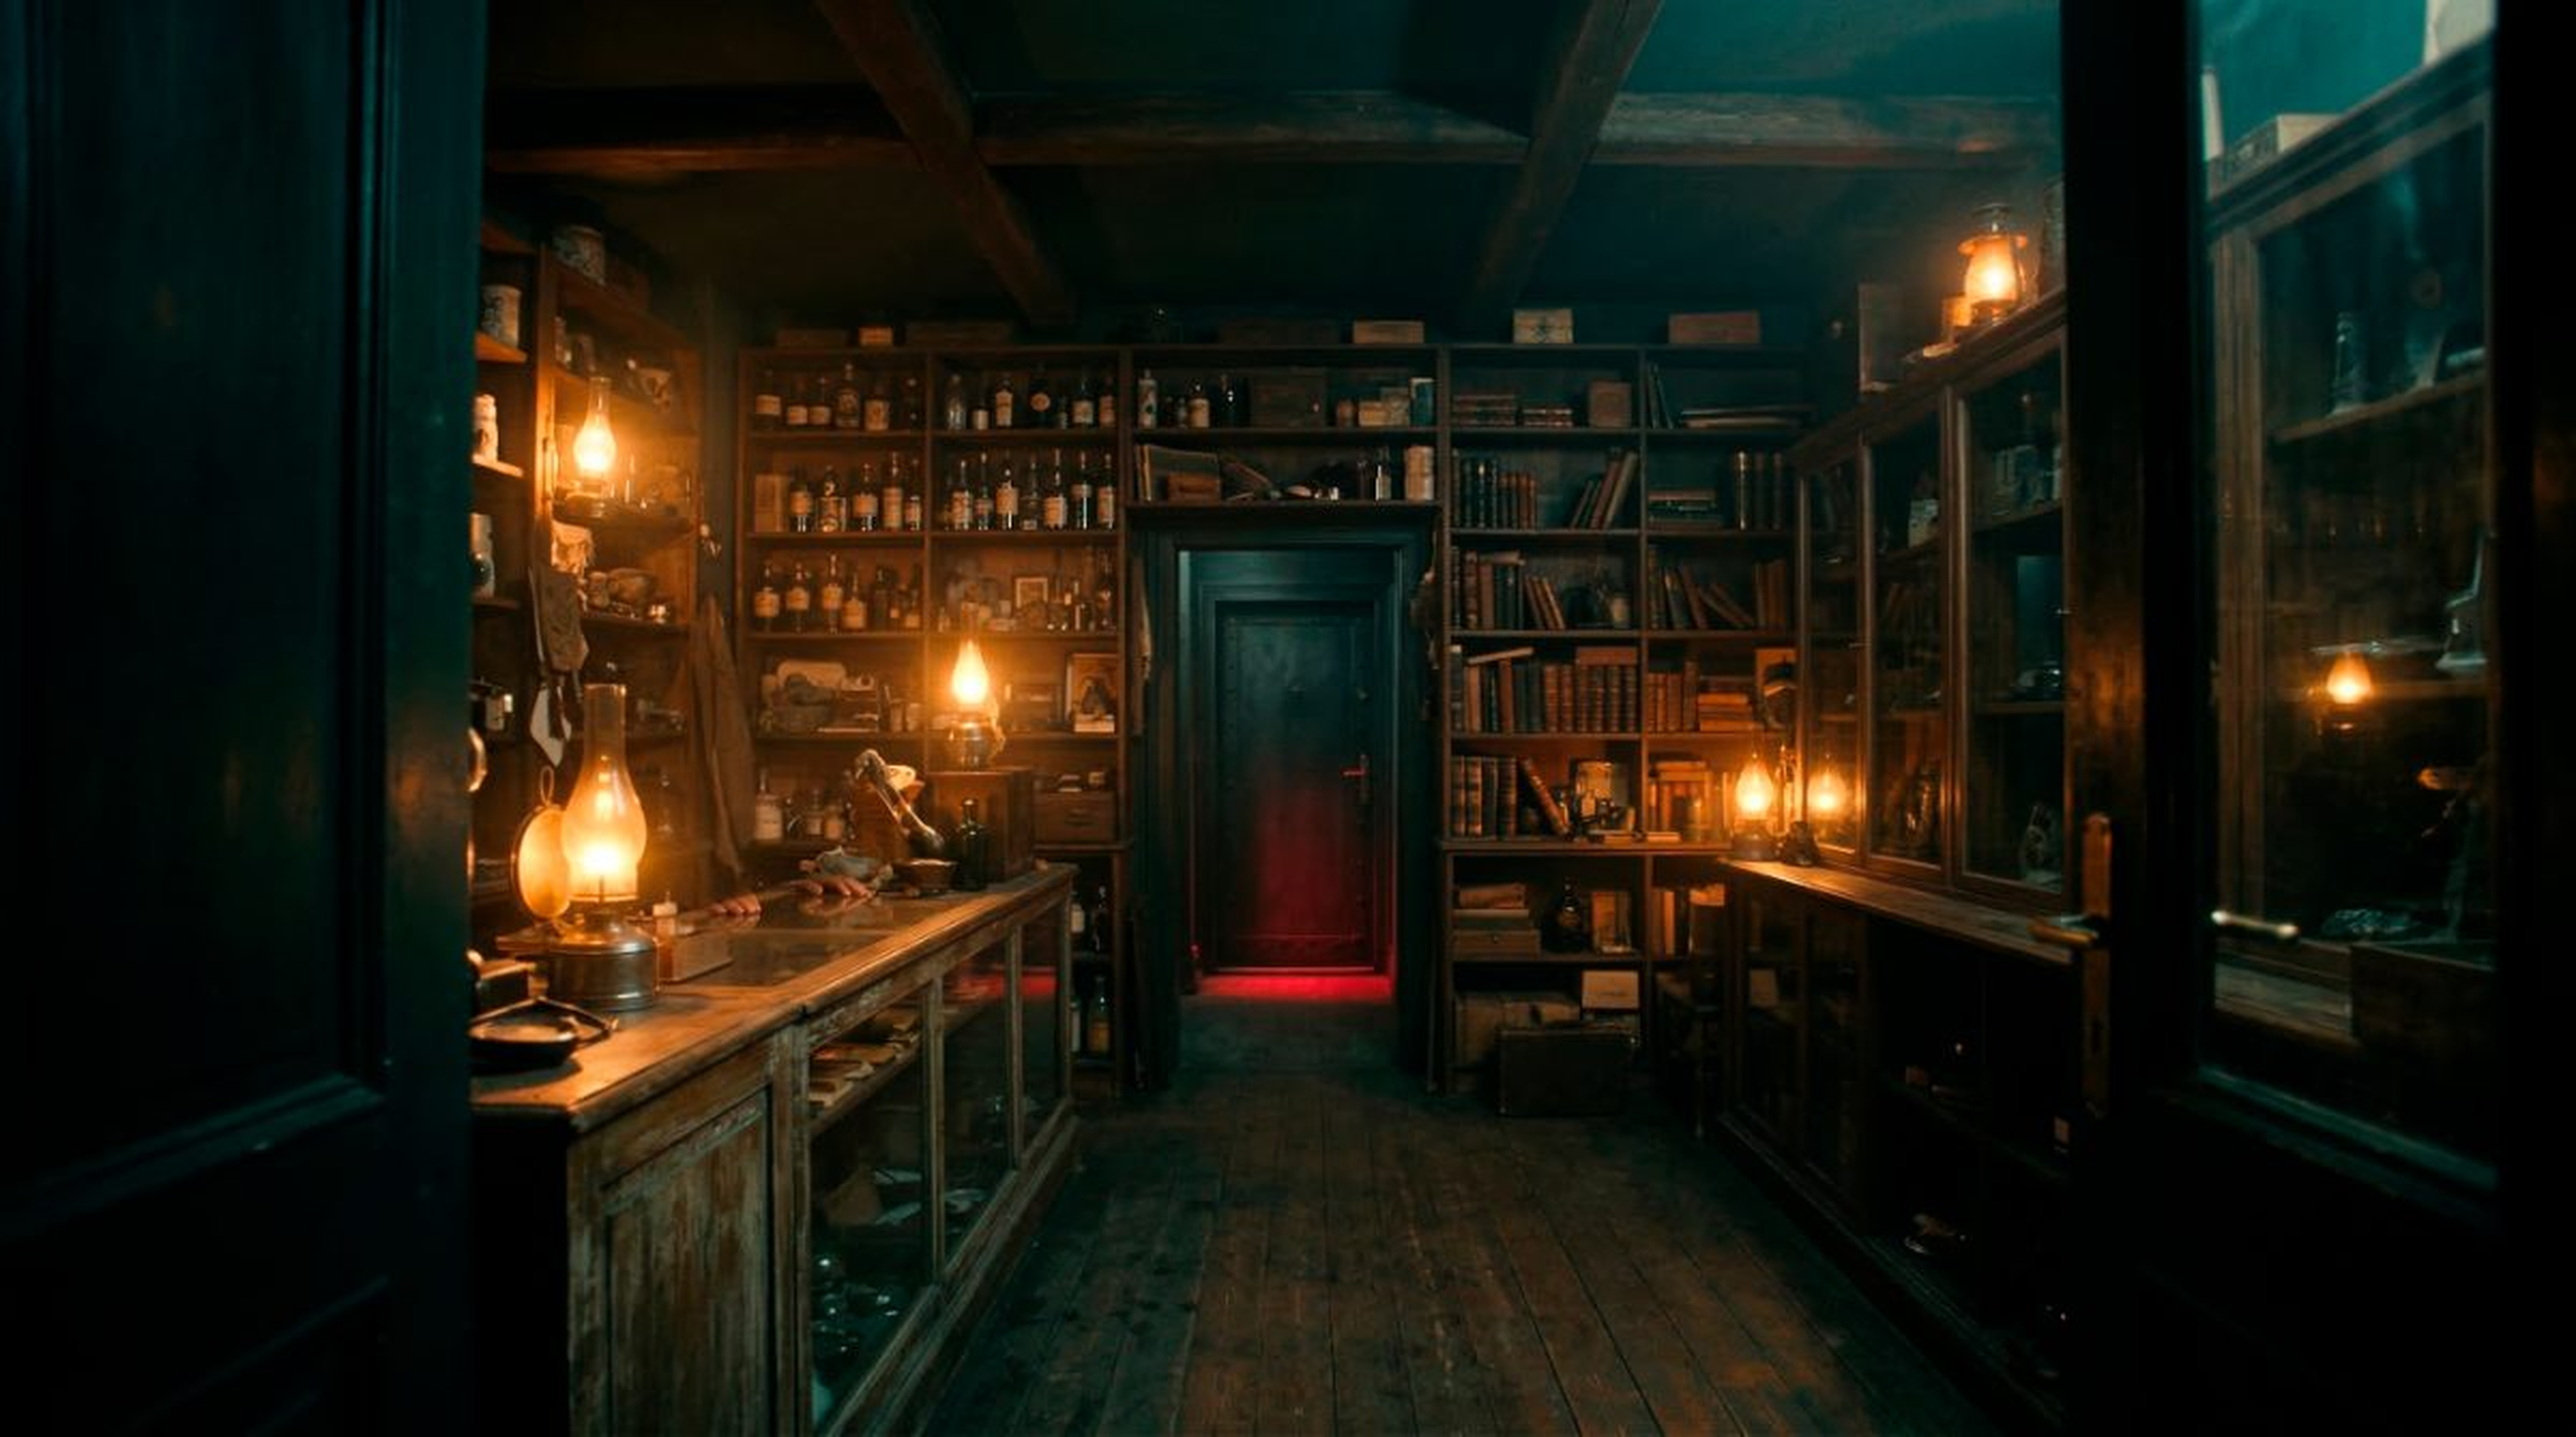
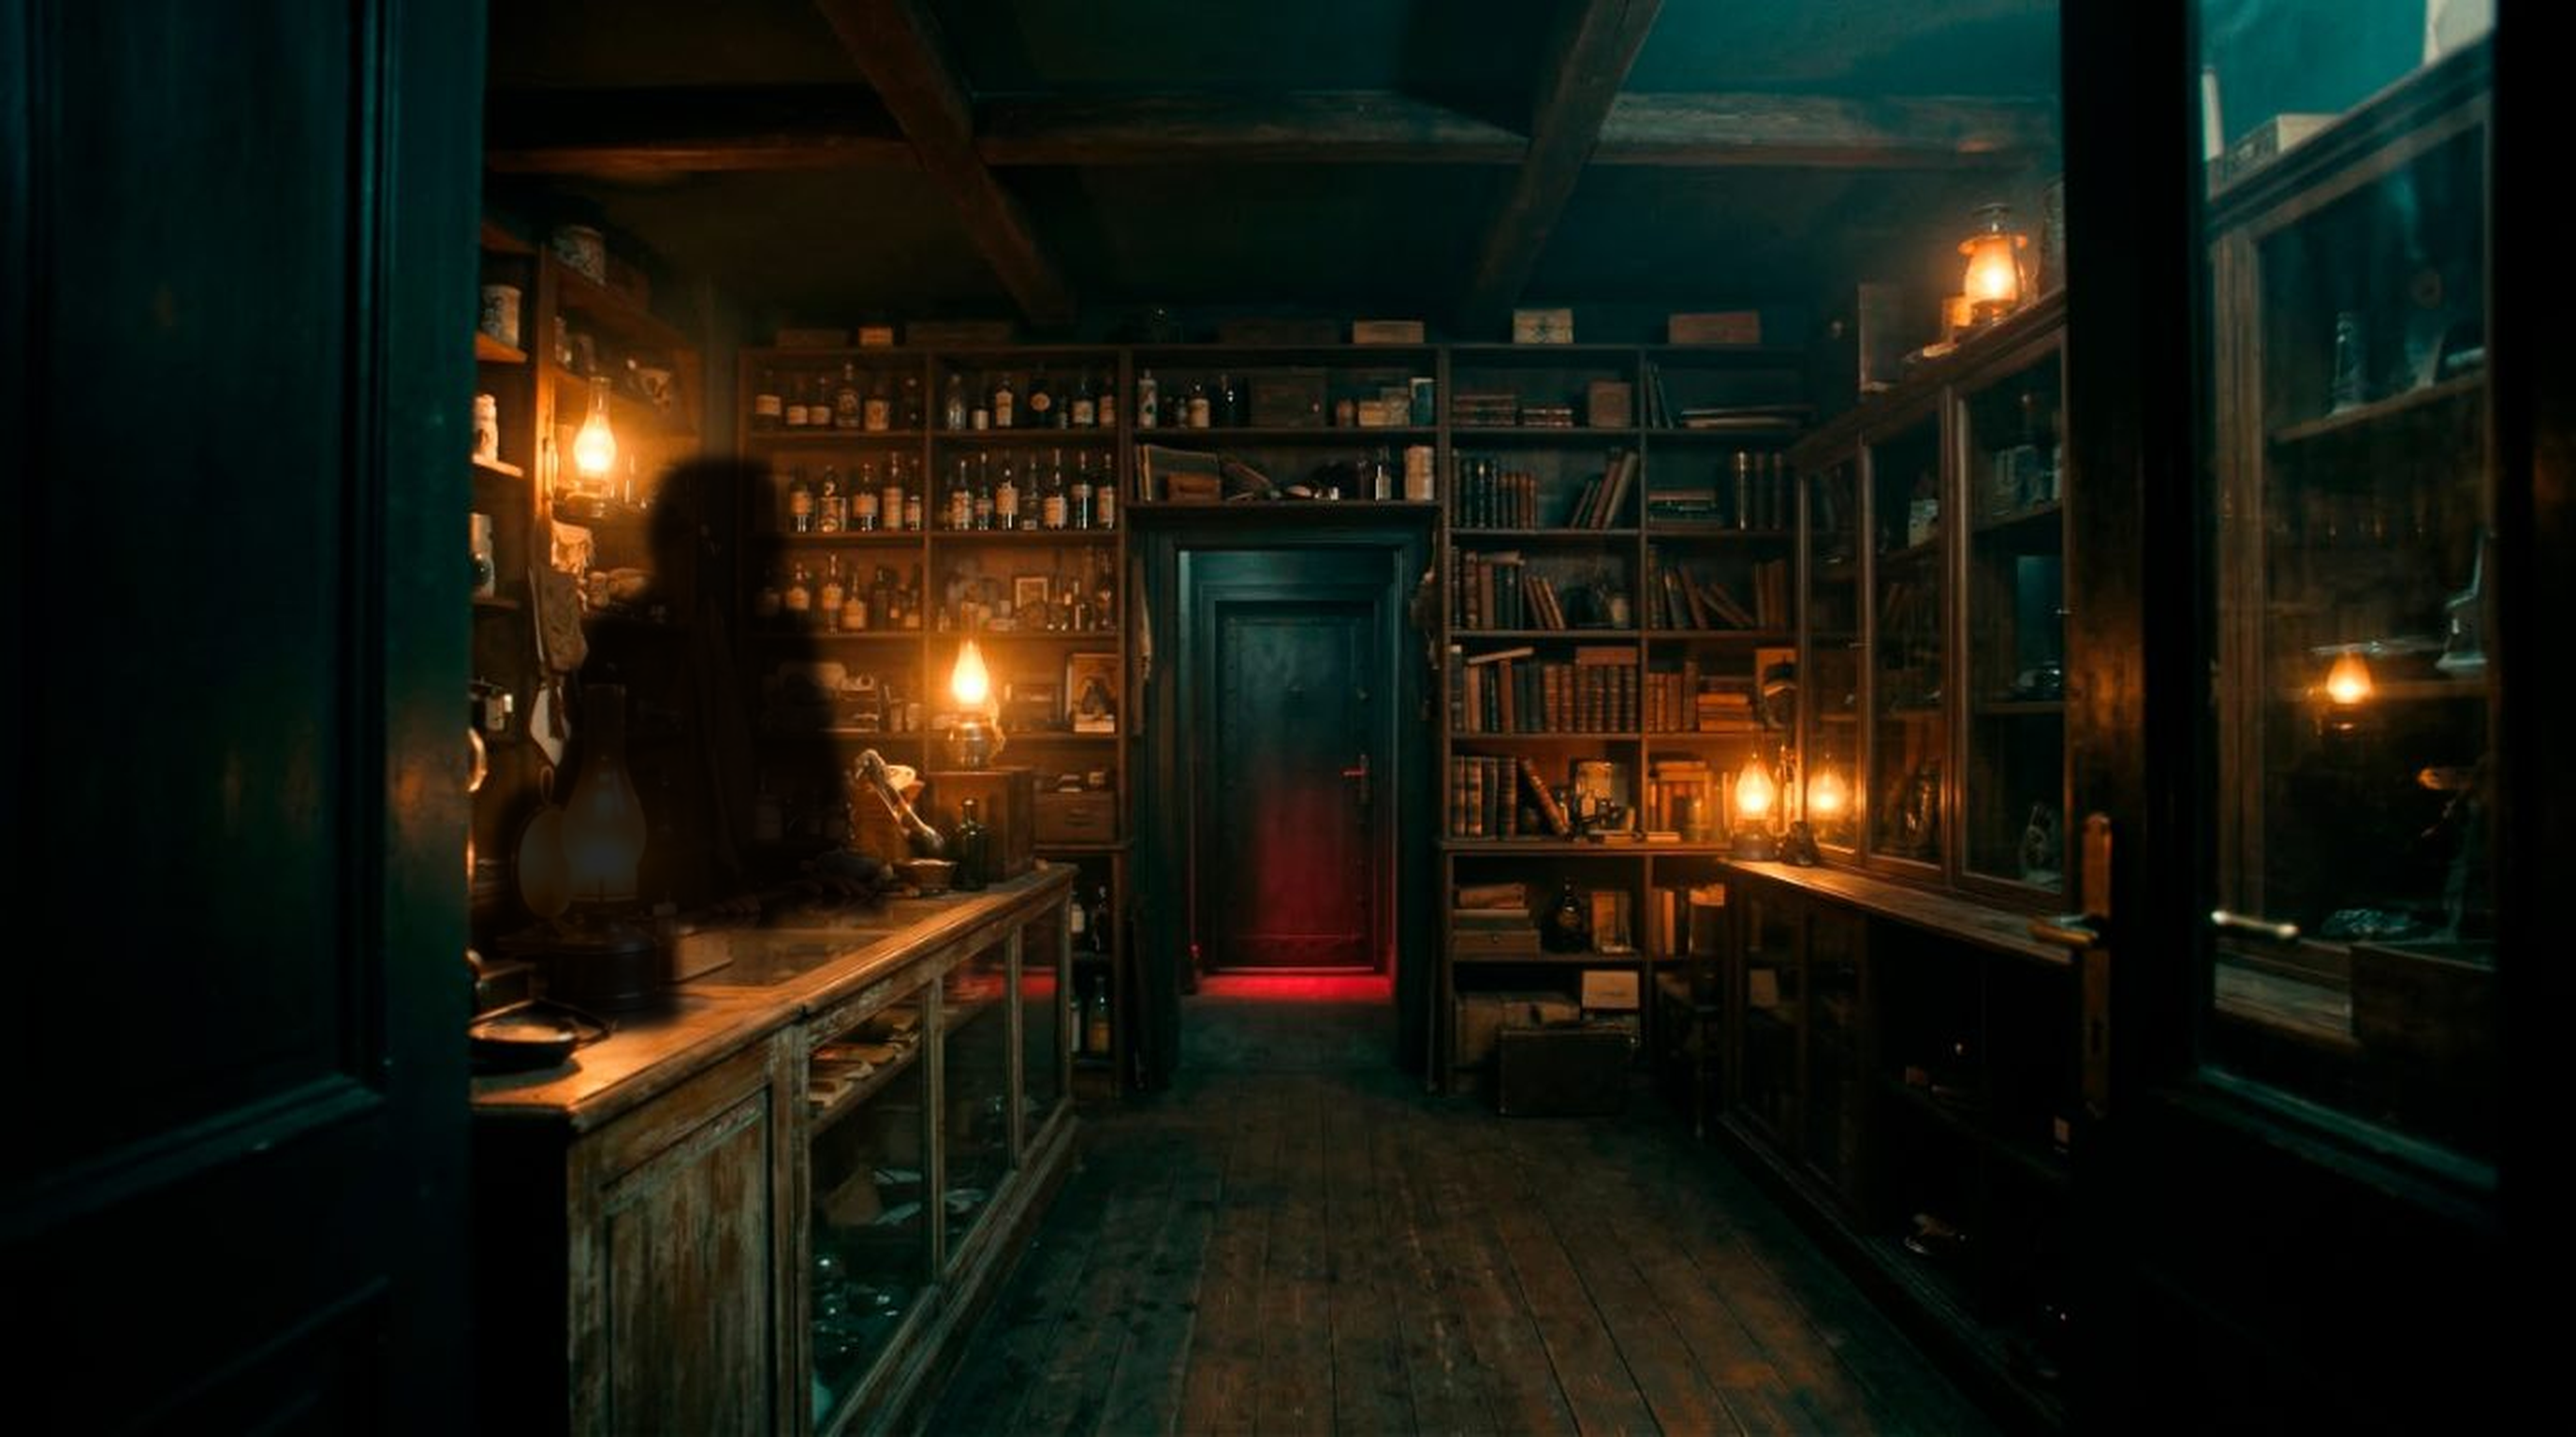
Fix doubling: 3-layer approach (bg with darkened shopkeeper area + lamp + shopkeeper parallax)

Changed region(s): [[0.1875, 0.3125, 0.3438, 0.75]]

diff --git a/shop-enter-demo.html b/shop-enter-demo.html
@@ -2,206 +2,119 @@
 <html lang="en">
 <head>
 <meta charset="UTF-8">
-<meta name="viewport" content="width=device-width, initial-scale=1.0">
+<meta name="viewport" content="width=device-width, initial-scale=1.0, maximum-scale=1.0, user-scalable=no">
 <title>NAMENLOS — Shop Enter 2.5D</title>
 <style>
 *{margin:0;padding:0;box-sizing:border-box}
 body{background:#000;overflow:hidden;height:100vh;width:100vw;cursor:crosshair;font-family:'Cinzel',serif}
 .scene{position:relative;width:100%;height:100%;overflow:hidden}
-.layer{position:absolute;top:50%;left:50%;transform:translate(-50%,-50%);transition:transform 0.15s ease-out;will-change:transform}
-.layer img{display:block;height:100vh;width:auto;min-width:100vw;object-fit:cover}
-
-/* Glow effect on candles */
-.glow{filter:brightness(1.1)}
-
-/* Hotspot areas */
-.hotspot{position:absolute;cursor:pointer;z-index:50;border:2px solid transparent;border-radius:8px;transition:all 0.3s}
-.hotspot:hover{border-color:rgba(200,160,96,0.4);box-shadow:0 0 20px rgba(200,160,96,0.15) inset}
-.hotspot .label{position:absolute;bottom:-28px;left:50%;transform:translateX(-50%);background:rgba(0,0,0,0.85);color:#c8a060;font-size:11px;padding:4px 12px;white-space:nowrap;opacity:0;transition:opacity 0.3s;letter-spacing:2px;pointer-events:none;font-family:'Cinzel',serif}
-.hotspot:hover .label{opacity:1}
-
-/* Vignette */
-.vignette{position:fixed;inset:0;pointer-events:none;z-index:40;background:radial-gradient(ellipse at center,transparent 40%,rgba(0,0,0,0.7) 100%)}
-
-/* Dust particles */
+.layer{
+  position:absolute;
+  top:50%;left:50%;
+  transform:translate(-50%,-50%);
+  will-change:transform;
+  width:108%;height:108%;
+}
+.layer img{display:block;width:100%;height:100%;object-fit:cover}
+.glow img{filter:brightness(1.15) contrast(1.05)}
+.vignette{position:fixed;inset:0;pointer-events:none;z-index:40;
+  background:radial-gradient(ellipse at center,transparent 40%,rgba(0,0,0,0.7) 100%)}
 .dust{position:fixed;inset:0;pointer-events:none;z-index:35}
 .dust span{position:absolute;width:2px;height:2px;background:rgba(200,170,100,0.3);border-radius:50%;animation:float linear infinite}
 @keyframes float{
   0%{transform:translateY(100vh) translateX(0);opacity:0}
-  10%{opacity:1}
-  90%{opacity:1}
+  10%{opacity:1}90%{opacity:1}
   100%{transform:translateY(-10vh) translateX(40px);opacity:0}
 }
-
-/* Info bar */
-.info{position:fixed;bottom:0;left:0;right:0;padding:12px 24px;background:linear-gradient(transparent,rgba(0,0,0,0.9));z-index:60;display:flex;justify-content:space-between;align-items:center;pointer-events:none}
-.info span{color:#555;font-size:10px;letter-spacing:3px;text-transform:uppercase;font-family:'IBM Plex Mono',monospace}
+.info{position:fixed;bottom:0;left:0;right:0;padding:12px 24px;
+  background:linear-gradient(transparent,rgba(0,0,0,0.9));z-index:60;
+  display:flex;justify-content:space-between;align-items:center;pointer-events:none}
+.info span{color:#555;font-size:10px;letter-spacing:3px;text-transform:uppercase;font-family:monospace}
 .info .title{color:#c8a060;font-size:13px;letter-spacing:5px}
-
-/* Loading */
-#loading{position:fixed;inset:0;background:#000;z-index:999;display:flex;align-items:center;justify-content:center;flex-direction:column;gap:16px;transition:opacity 0.8s}
+#loading{position:fixed;inset:0;background:#000;z-index:999;
+  display:flex;align-items:center;justify-content:center;flex-direction:column;gap:16px;transition:opacity 0.8s}
 #loading.done{opacity:0;pointer-events:none}
-#loading .text{color:#2a2218;font-size:11px;letter-spacing:8px;text-transform:uppercase;font-family:'Cinzel',serif}
+#loading .text{color:#2a2218;font-size:11px;letter-spacing:8px;text-transform:uppercase}
 #loading .bar{width:200px;height:1px;background:#1a1a1a}
 #loading .fill{height:100%;background:#c8a060;width:0;transition:width 0.3s}
 </style>
 </head>
 <body>
-
 <div id="loading">
   <div class="text">Namenlos</div>
   <div class="bar"><div class="fill" id="loadFill"></div></div>
 </div>
 
 <div class="scene" id="scene">
-  <!-- Layers stacked back-to-front, each with a depth multiplier -->
-  <!-- depth: 0 = static, higher = more parallax movement -->
-  
-  <!-- Background (static) -->
+  <!-- BG: static, shopkeeper area darkened -->
   <div class="layer" data-depth="0">
-    <img src="img/shop_enter/002_0014_Background.png" alt="bg">
+    <img src="img/shop_enter/002_0014_Background.png" alt="shop">
   </div>
-  
-  <!-- Far back elements: door, entrance -->
-  <div class="layer" data-depth="0.5">
-    <img src="img/shop_enter/002_0010_Layer-12.png" alt="door">
+  <!-- LAMP: subtle parallax -->
+  <div class="layer glow" data-depth="0.6">
+    <img src="img/shop_enter/002_0001_Layer-2.png" alt="lamp">
   </div>
-  <div class="layer" data-depth="0.6">
-    <img src="img/shop_enter/002_0011_Layer-13.png" alt="door-light">
-  </div>
-  
-  <!-- Mid: shelves, counter area -->
+  <!-- SHOPKEEPER: most parallax -->
   <div class="layer" data-depth="1.0">
-    <img src="img/shop_enter/002_0002_Layer-3.png" alt="counter">
-  </div>
-  <div class="layer" data-depth="1.2">
-    <img src="img/shop_enter/002_0003_Layer-5.png" alt="floor">
-  </div>
-  
-  <!-- Display case / vitrine -->
-  <div class="layer" data-depth="1.5">
-    <img src="img/shop_enter/002_0012_Layer-14.png" alt="vitrine">
-  </div>
-  <div class="layer" data-depth="1.6">
-    <img src="img/shop_enter/002_0013_Layer-15.png" alt="red-item">
-  </div>
-  
-  <!-- Small items on shelves -->
-  <div class="layer" data-depth="1.8">
-    <img src="img/shop_enter/002_0004_Layer-6.png" alt="item1">
-  </div>
-  <div class="layer" data-depth="1.9">
-    <img src="img/shop_enter/002_0005_Layer-7.png" alt="item2">
-  </div>
-  <div class="layer" data-depth="2.0">
-    <img src="img/shop_enter/002_0006_Layer-8.png" alt="item3">
-  </div>
-  <div class="layer" data-depth="2.0">
-    <img src="img/shop_enter/002_0007_Layer-9.png" alt="item4">
-  </div>
-  <div class="layer" data-depth="2.1">
-    <img src="img/shop_enter/002_0008_Layer-10.png" alt="item5">
-  </div>
-  <div class="layer" data-depth="2.1">
-    <img src="img/shop_enter/002_0009_Layer-11.png" alt="item6">
-  </div>
-  
-  <!-- Candle/lamp (foreground glow) -->
-  <div class="layer glow" data-depth="2.5">
-    <img src="img/shop_enter/002_0001_Layer-2.png" alt="candle">
-  </div>
-  
-  <!-- Shopkeeper (front) -->
-  <div class="layer" data-depth="3.0">
     <img src="img/shop_enter/002_0000_Layer-1.png" alt="shopkeeper">
   </div>
 </div>
 
-<!-- Vignette overlay -->
 <div class="vignette"></div>
-
-<!-- Dust particles -->
 <div class="dust" id="dust"></div>
-
-<!-- Info bar -->
 <div class="info">
   <span class="title">NAMENLOS</span>
   <span>move your cursor to look around</span>
 </div>
 
 <script>
-// Parallax on mouse move
-const scene = document.getElementById('scene');
 const layers = document.querySelectorAll('.layer');
-const maxShift = 25; // max px shift at depth=1
+const maxShift = 15;
+let targetX=0,targetY=0,currentX=0,currentY=0;
 
-let targetX = 0, targetY = 0, currentX = 0, currentY = 0;
-
-document.addEventListener('mousemove', e => {
-  // Normalize to -1..1 from center
-  targetX = (e.clientX / window.innerWidth - 0.5) * 2;
-  targetY = (e.clientY / window.innerHeight - 0.5) * 2;
+document.addEventListener('mousemove',e=>{
+  targetX=(e.clientX/innerWidth-0.5)*2;
+  targetY=(e.clientY/innerHeight-0.5)*2;
 });
 
-// Smooth animation loop
-function animate() {
-  currentX += (targetX - currentX) * 0.08;
-  currentY += (targetY - currentY) * 0.08;
-  
-  layers.forEach(layer => {
-    const depth = parseFloat(layer.dataset.depth) || 0;
-    const moveX = -currentX * maxShift * depth;
-    const moveY = -currentY * maxShift * depth * 0.5; // less vertical
-    layer.style.transform = `translate(calc(-50% + ${moveX}px), calc(-50% + ${moveY}px))`;
+(function animate(){
+  currentX+=(targetX-currentX)*0.06;
+  currentY+=(targetY-currentY)*0.06;
+  layers.forEach(l=>{
+    const d=parseFloat(l.dataset.depth)||0;
+    const mx=-currentX*maxShift*d;
+    const my=-currentY*maxShift*d*0.4;
+    l.style.transform=`translate(calc(-50% + ${mx}px), calc(-50% + ${my}px))`;
   });
-  
   requestAnimationFrame(animate);
-}
-animate();
+})();
 
-// Mobile: gyroscope
-if (window.DeviceOrientationEvent) {
-  window.addEventListener('deviceorientation', e => {
-    if (e.gamma !== null) {
-      targetX = Math.max(-1, Math.min(1, e.gamma / 30));
-      targetY = Math.max(-1, Math.min(1, (e.beta - 45) / 30));
+if(window.DeviceOrientationEvent){
+  window.addEventListener('deviceorientation',e=>{
+    if(e.gamma!==null){
+      targetX=Math.max(-1,Math.min(1,e.gamma/25));
+      targetY=Math.max(-1,Math.min(1,(e.beta-45)/25));
     }
   });
 }
 
-// Dust particles
-const dustEl = document.getElementById('dust');
-for (let i = 0; i < 30; i++) {
-  const s = document.createElement('span');
-  s.style.left = Math.random() * 100 + '%';
-  s.style.animationDuration = (8 + Math.random() * 12) + 's';
-  s.style.animationDelay = Math.random() * 10 + 's';
-  s.style.width = s.style.height = (1 + Math.random() * 2) + 'px';
+const dustEl=document.getElementById('dust');
+for(let i=0;i<25;i++){
+  const s=document.createElement('span');
+  s.style.left=Math.random()*100+'%';
+  s.style.animationDuration=(10+Math.random()*15)+'s';
+  s.style.animationDelay=Math.random()*12+'s';
+  const sz=1+Math.random()*2;
+  s.style.width=s.style.height=sz+'px';
+  s.style.opacity=0.2+Math.random()*0.3;
   dustEl.appendChild(s);
 }
 
-// Loading: wait for all images
-const imgs = document.querySelectorAll('.layer img');
-let loaded = 0;
-const fill = document.getElementById('loadFill');
-
-imgs.forEach(img => {
-  if (img.complete) { loaded++; fill.style.width = (loaded / imgs.length * 100) + '%'; }
-  else {
-    img.addEventListener('load', () => {
-      loaded++;
-      fill.style.width = (loaded / imgs.length * 100) + '%';
-      if (loaded >= imgs.length) setTimeout(() => document.getElementById('loading').classList.add('done'), 300);
-    });
-    img.addEventListener('error', () => {
-      loaded++;
-      fill.style.width = (loaded / imgs.length * 100) + '%';
-    });
-  }
-});
-if (loaded >= imgs.length) setTimeout(() => document.getElementById('loading').classList.add('done'), 300);
-
-// All layers are RGBA with proper transparency — normal compositing
+const imgs=document.querySelectorAll('.layer img');
+let loaded=0;const fill=document.getElementById('loadFill');const total=imgs.length;
+function chk(){fill.style.width=(loaded/total*100)+'%';if(loaded>=total)setTimeout(()=>document.getElementById('loading').classList.add('done'),400);}
+imgs.forEach(img=>{if(img.complete){loaded++;chk();}else{img.onload=()=>{loaded++;chk();};img.onerror=()=>{loaded++;chk();};}});
+chk();
 </script>
 </body>
 </html>
